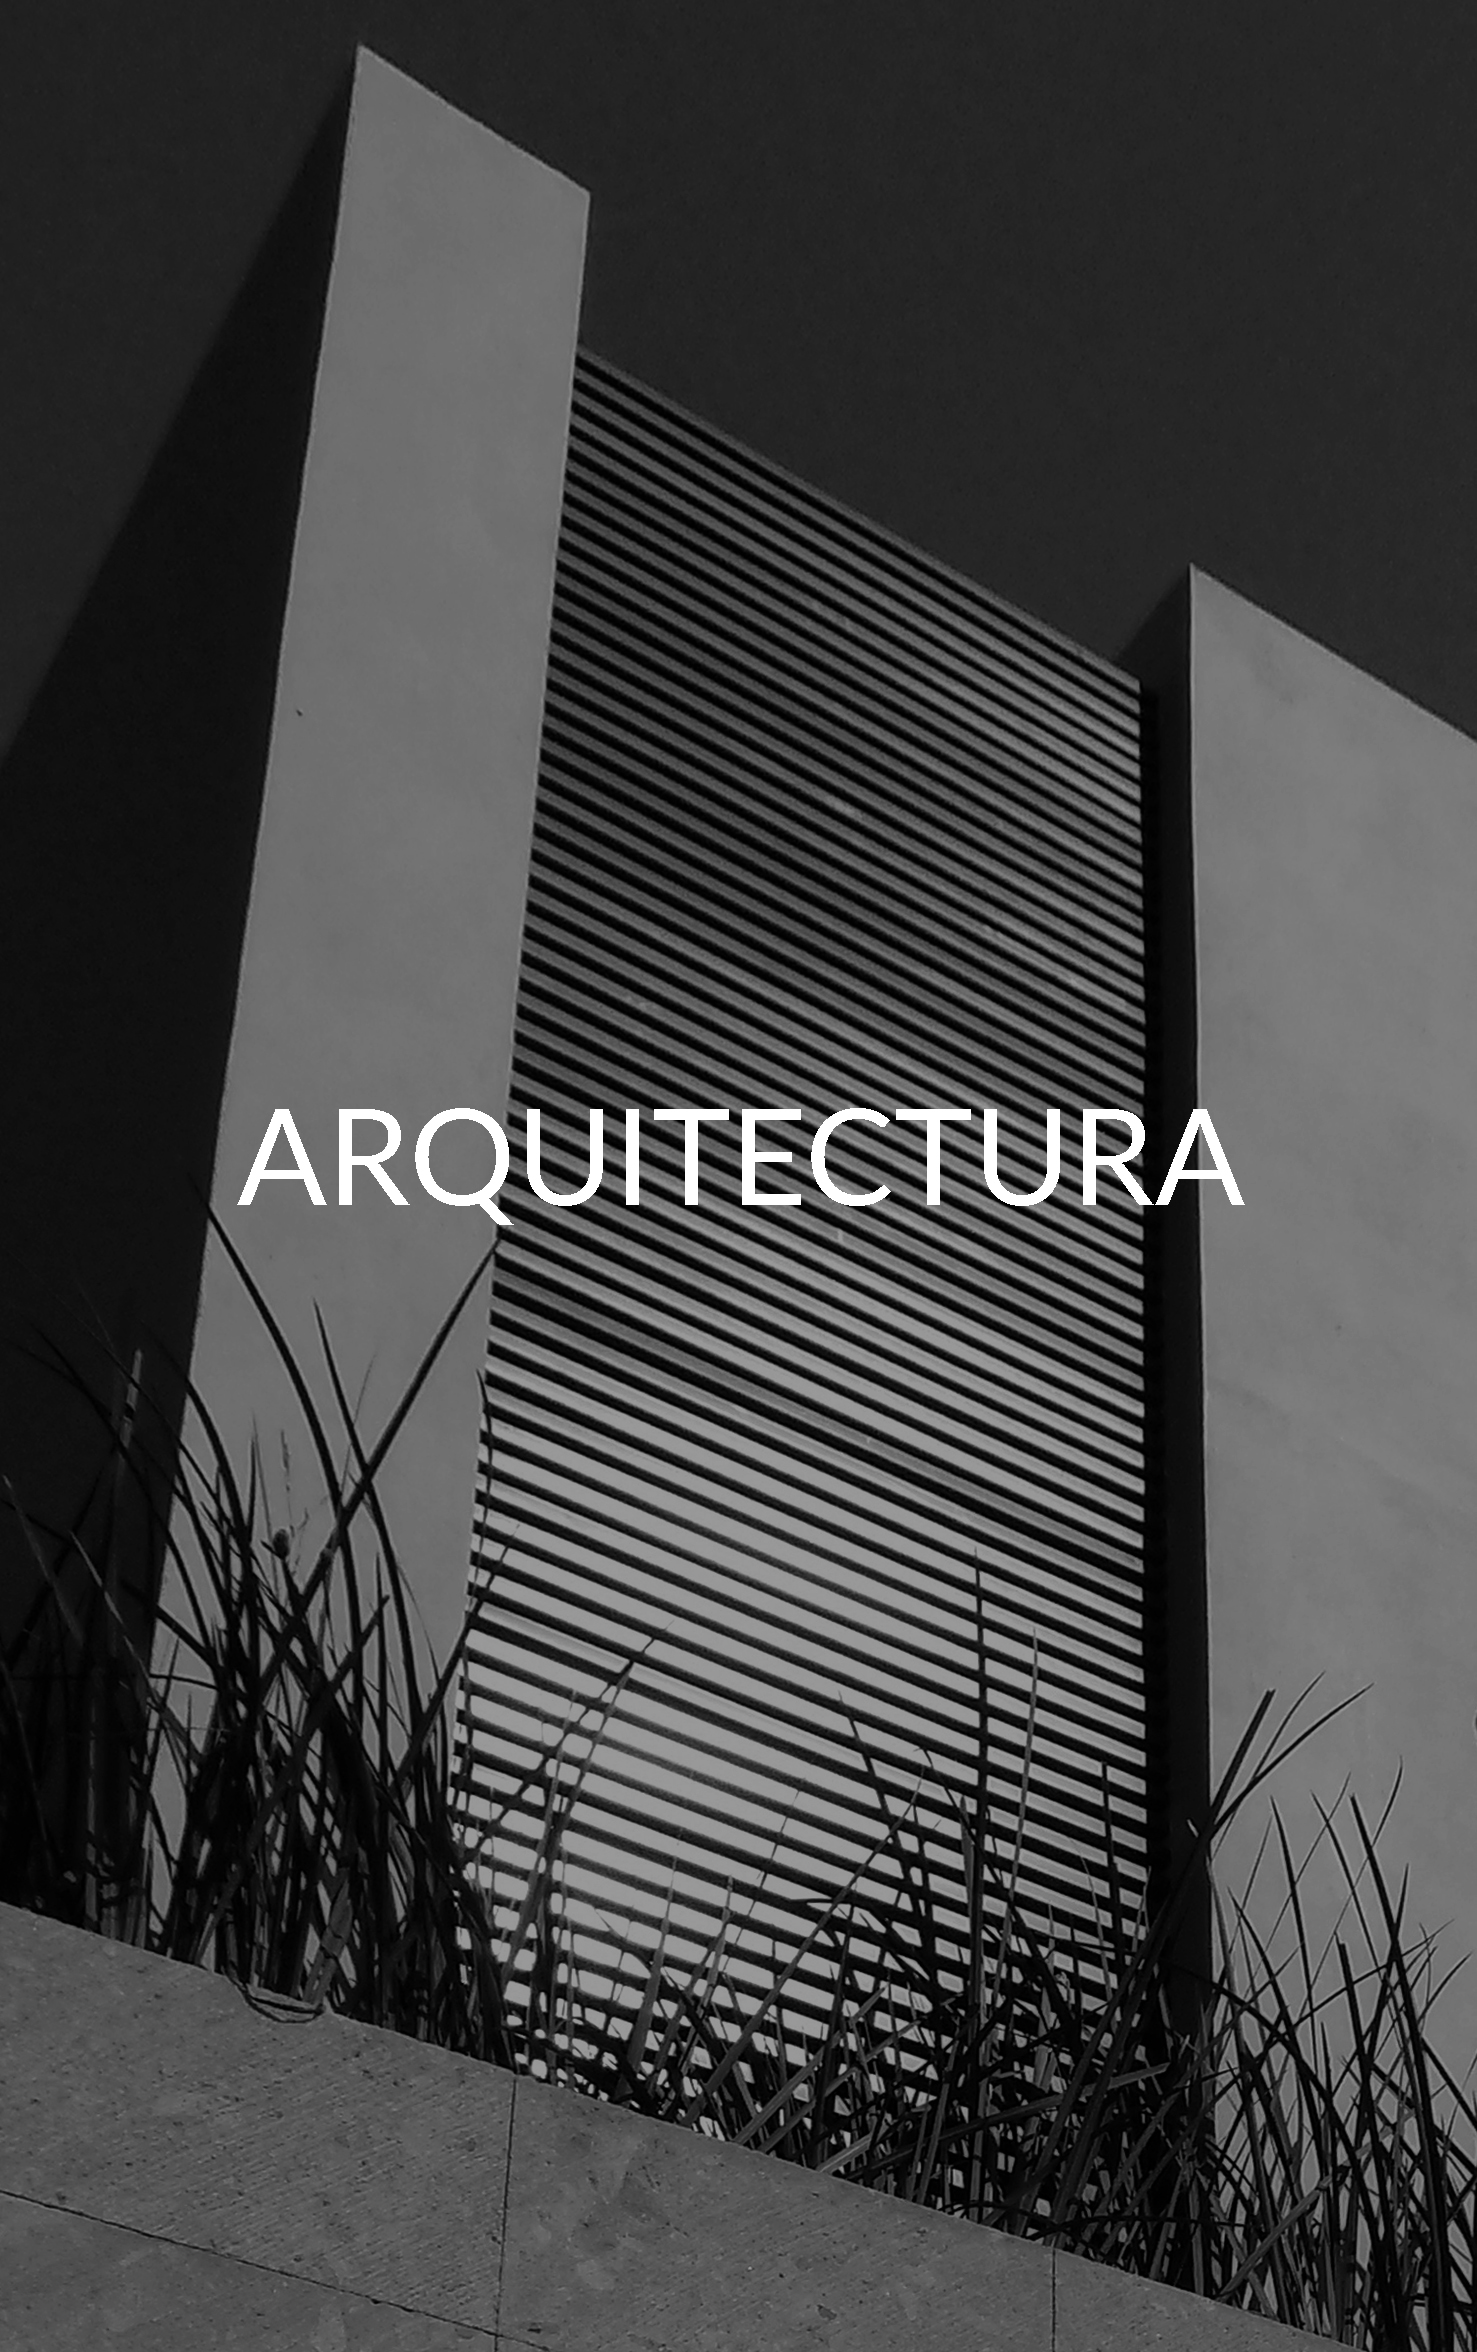
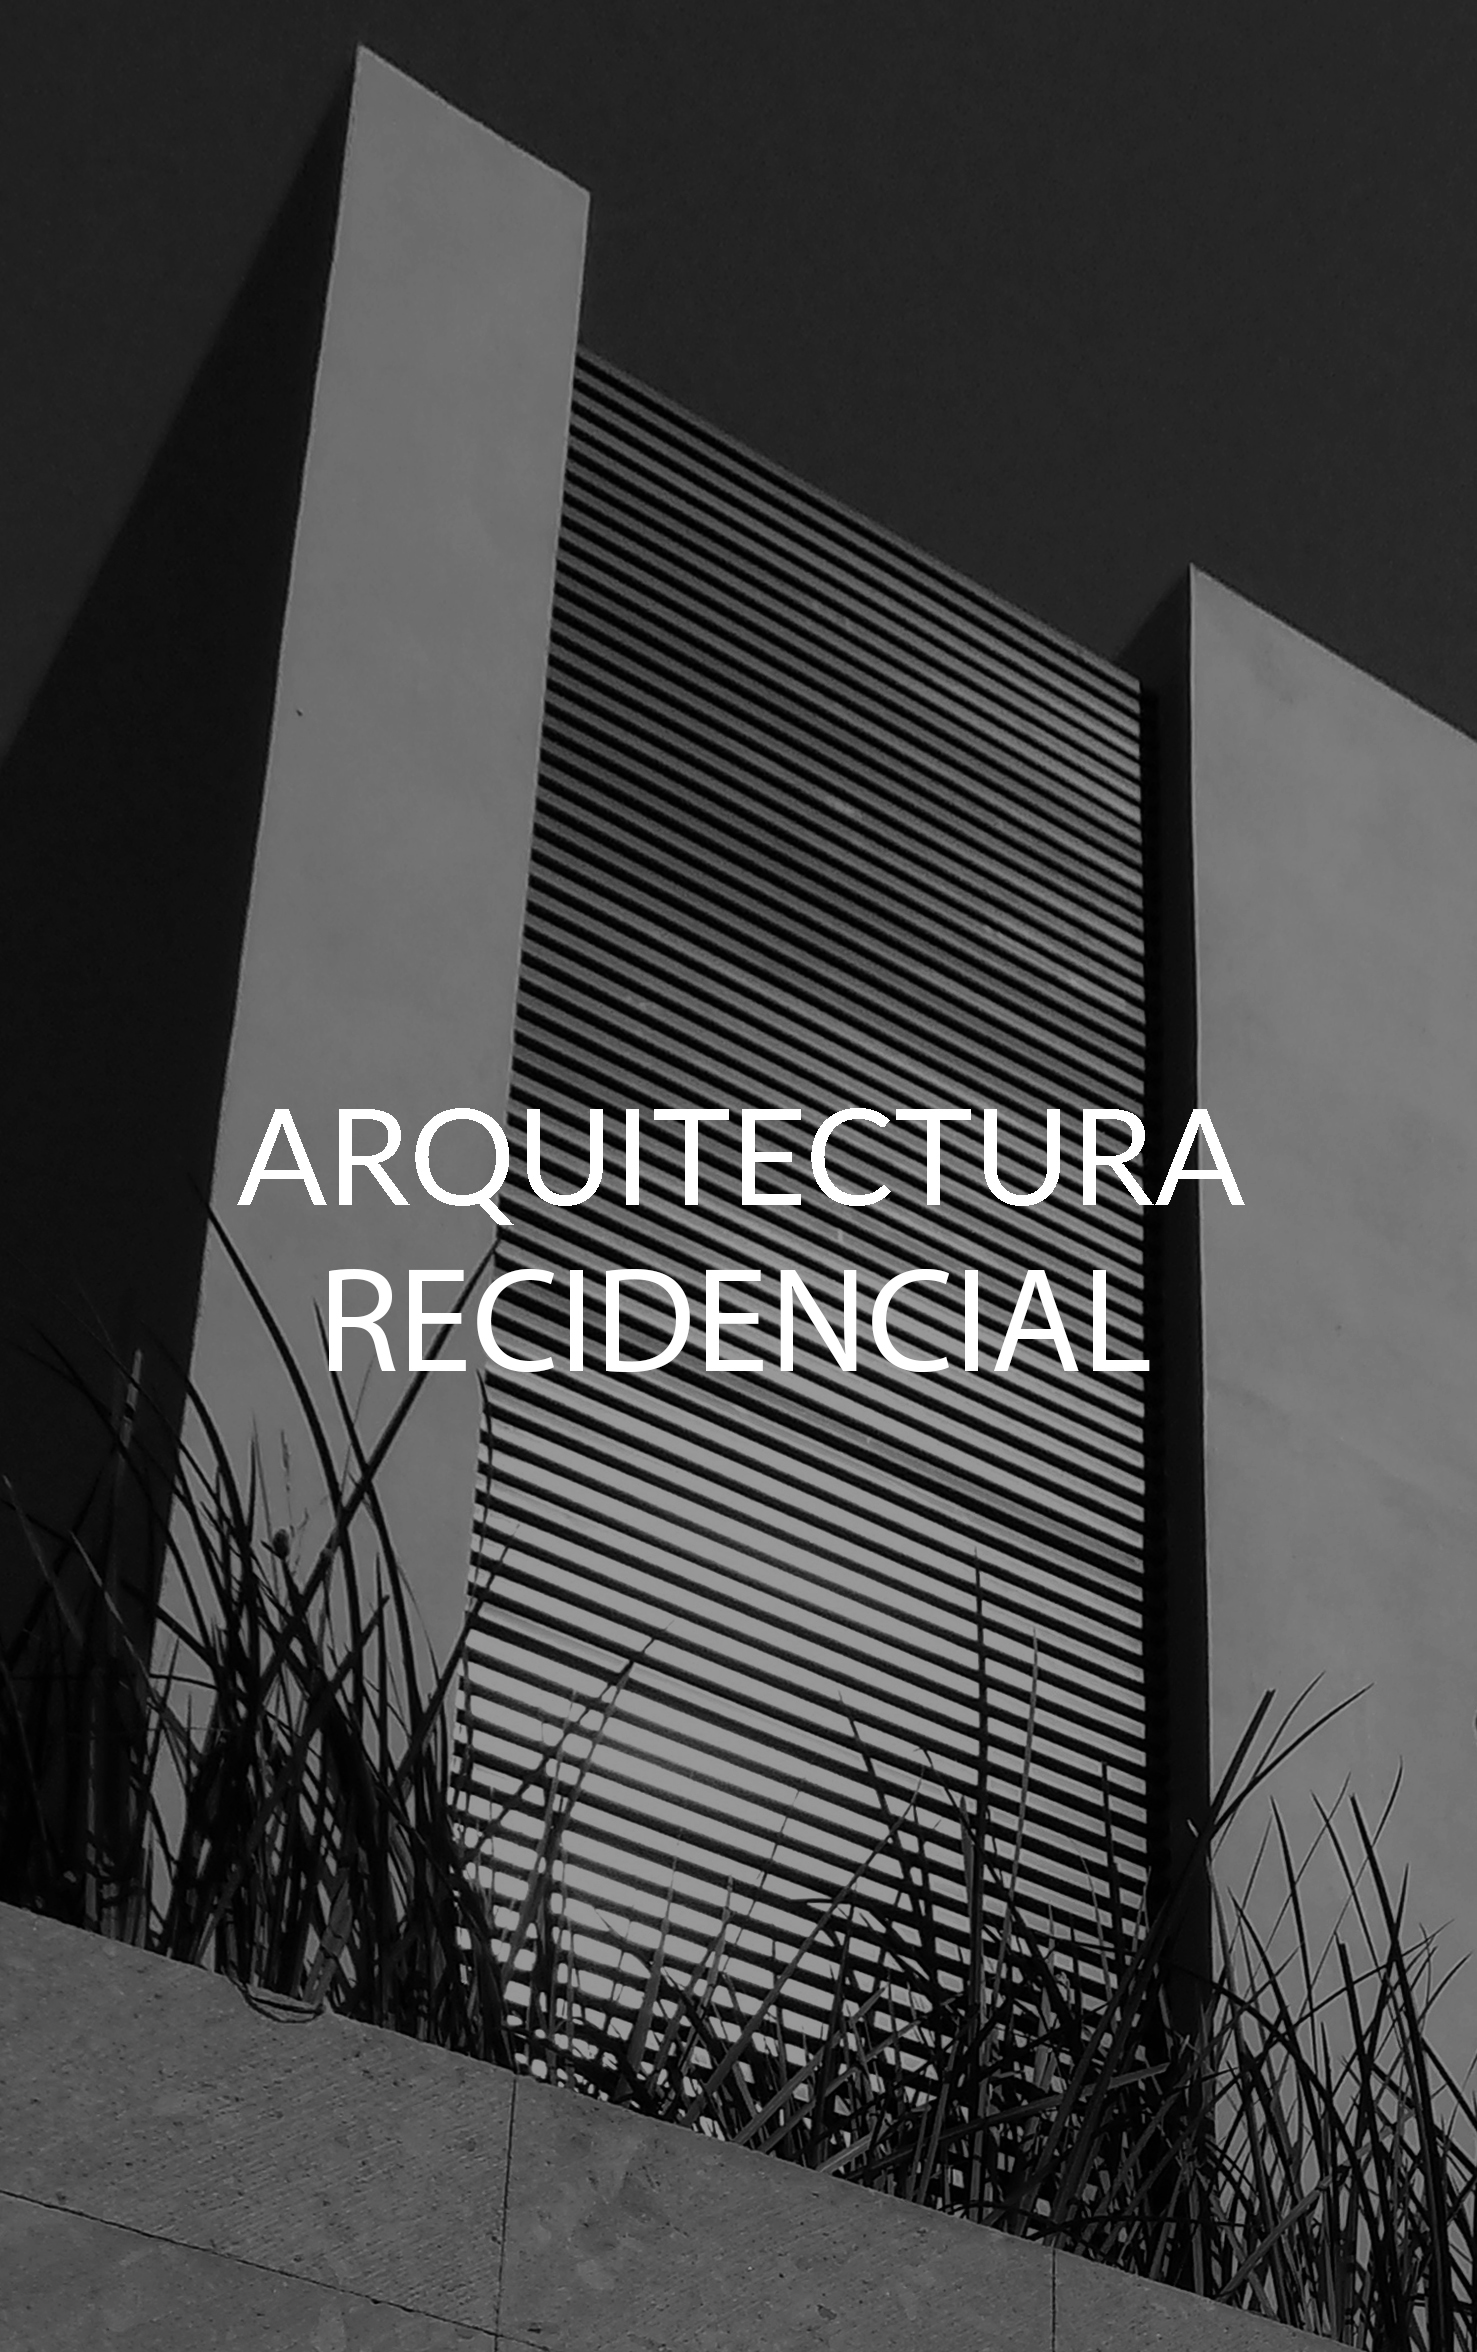
comercial

Changed region(s): [[0.218, 0.5276, 0.7786, 0.5897]]

diff --git a/index.html b/index.html
@@ -198,8 +198,8 @@
                     </a>
                 </div>
                 <div class="col-sm-4 galdiv">
-                    <a class="galopt" href="exteriores.html">
-                        <img class="img-responsive" src="images/galopt/paisaje.jpg">
+                    <a class="galopt" href="comercial.html">
+                        <img class="img-responsive" src="images/galopt/comercial.jpg">
                     </a>
                 </div>
             </div>

diff --git a/arquitectura.html b/arquitectura.html
@@ -62,9 +62,9 @@
                     </a>
                 </div>
                 <div class="col-lg-4">
-                    <a href=exteriores.html "">
+                    <a href=comercial.html "">
                         <h3 class="lato ">
-                            <u>EXTERIORES</u>
+                            <u>COMERCIAL</u>
                         </h3>
                     </a>
                 </div>

diff --git a/interiores.html b/interiores.html
@@ -65,9 +65,9 @@
                 <h2 class="lato "><b>INTERIORES</b></h2>
             </div>
             <div class="col-lg-4">
-                <a href=exteriores.html "">
+                <a href=comercial.html "">
                     <h3 class="lato ">
-                        <u>EXTERIORES</u>
+                        <u>COMERCIAL</u>
                     </h3>
                 </a>
             </div>

diff --git a/comercial.html b/comercial.html
@@ -67,7 +67,7 @@
                 </div>
                 <div class="col-lg-4  ">
                     <h2 class="lato ">
-                        <b>EXTERIORES</b>
+                        <b>COMERCIAL</b>
                     </h2>
                 </div>
             </div>
